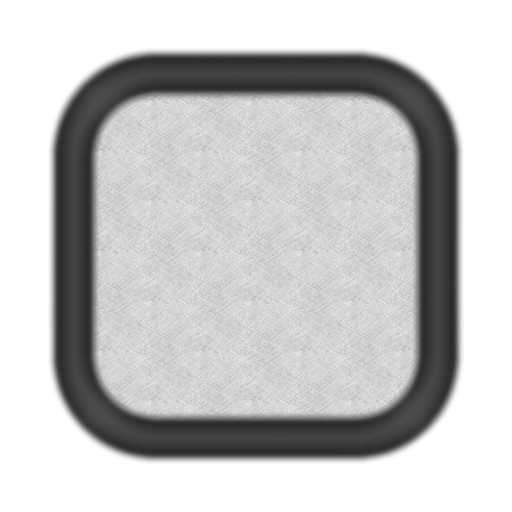
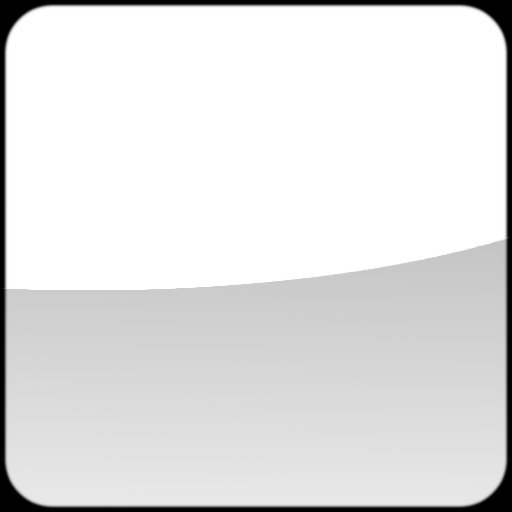
New images for buttons ! Cleaner but need more antialias

diff --git a/src/me/winter/trapgame/client/TrapButton.java b/src/me/winter/trapgame/client/TrapButton.java
@@ -44,12 +44,6 @@ public class TrapButton extends JButton
 				if(board.isBoardLocked())
 					return;
 
-				if(!(e.getX() > getWidth() / 8
-				&& e.getX() <= getWidth() * 7 / 8
-				&& e.getY() > getHeight() / 8
-				&& e.getY() <= getHeight() * 7 / 8))
-					return;
-
 				if(!board.canClick(point))
 					return;
 
@@ -103,7 +97,7 @@ public class TrapButton extends JButton
 	{
 		graphics.setColor(getBackground());
 
-		graphics.fillRoundRect(getWidth() / 8, getHeight() / 8, getWidth() * 3 / 4, getHeight() * 3 / 4, getWidth() / 4, getHeight() / 4);
+		graphics.fillRect(0, 0, getWidth(), getHeight());
 
 		graphics.drawImage(getBoard().getButtonFrame(), 0, 0, getWidth(), getHeight(), null);
 

diff --git a/src/me/winter/trapgame/client/BoardMenu.java b/src/me/winter/trapgame/client/BoardMenu.java
@@ -83,7 +83,6 @@ public class BoardMenu extends JPanel
 
 		for(PlayerInfo info : getBoard().getPlayers())
 		{
-
 			JLabel label = new JLabel("<html>" + info.getName() + ":<br>" + info.getStats() + "</html>");
 			label.setForeground(info.getColor());
 
